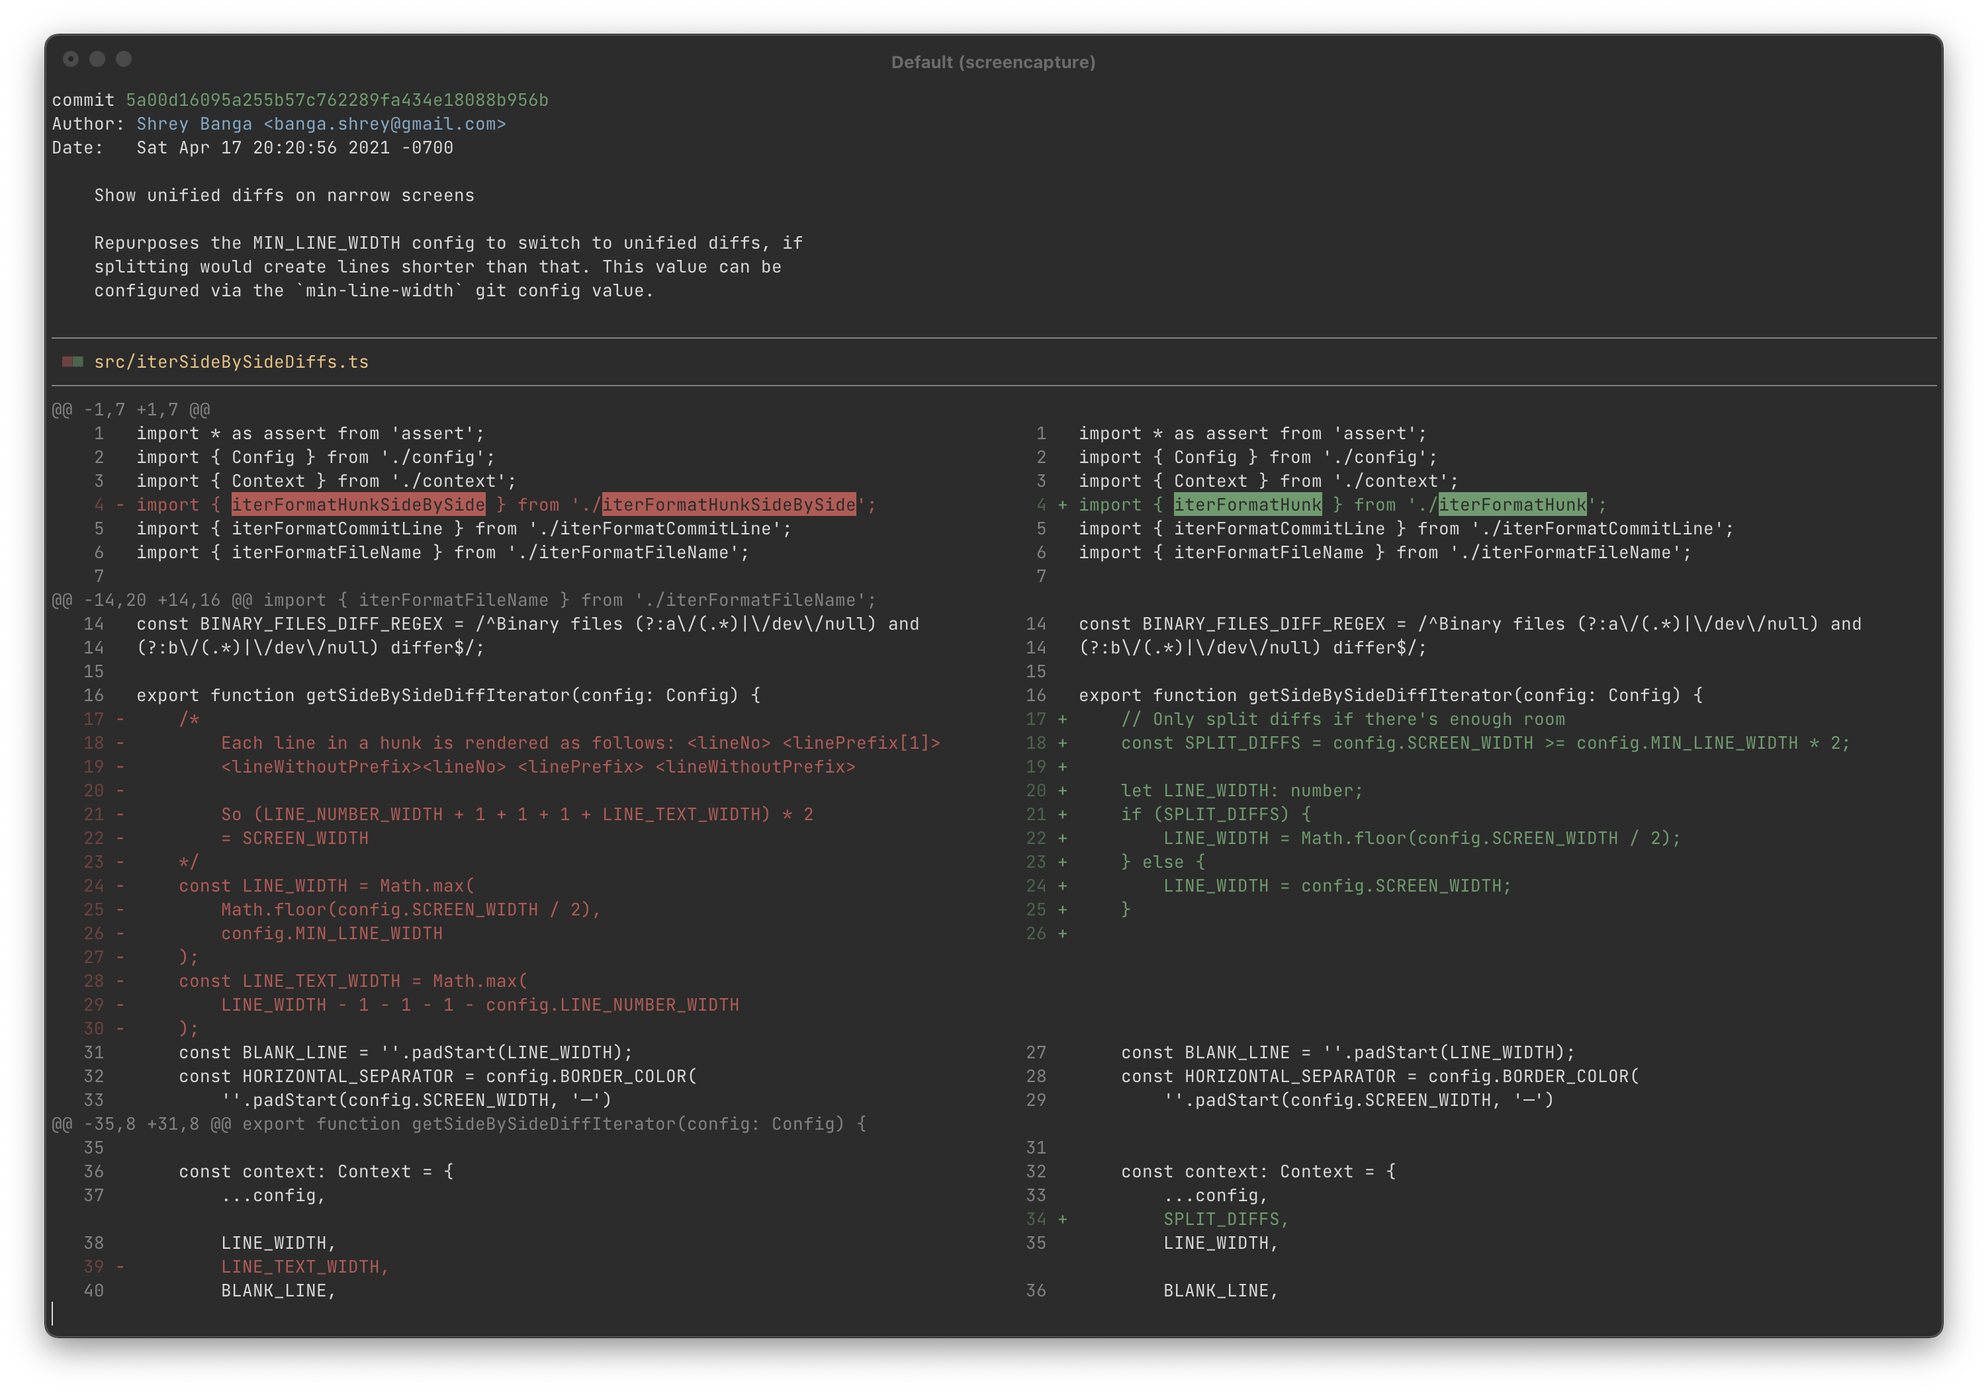
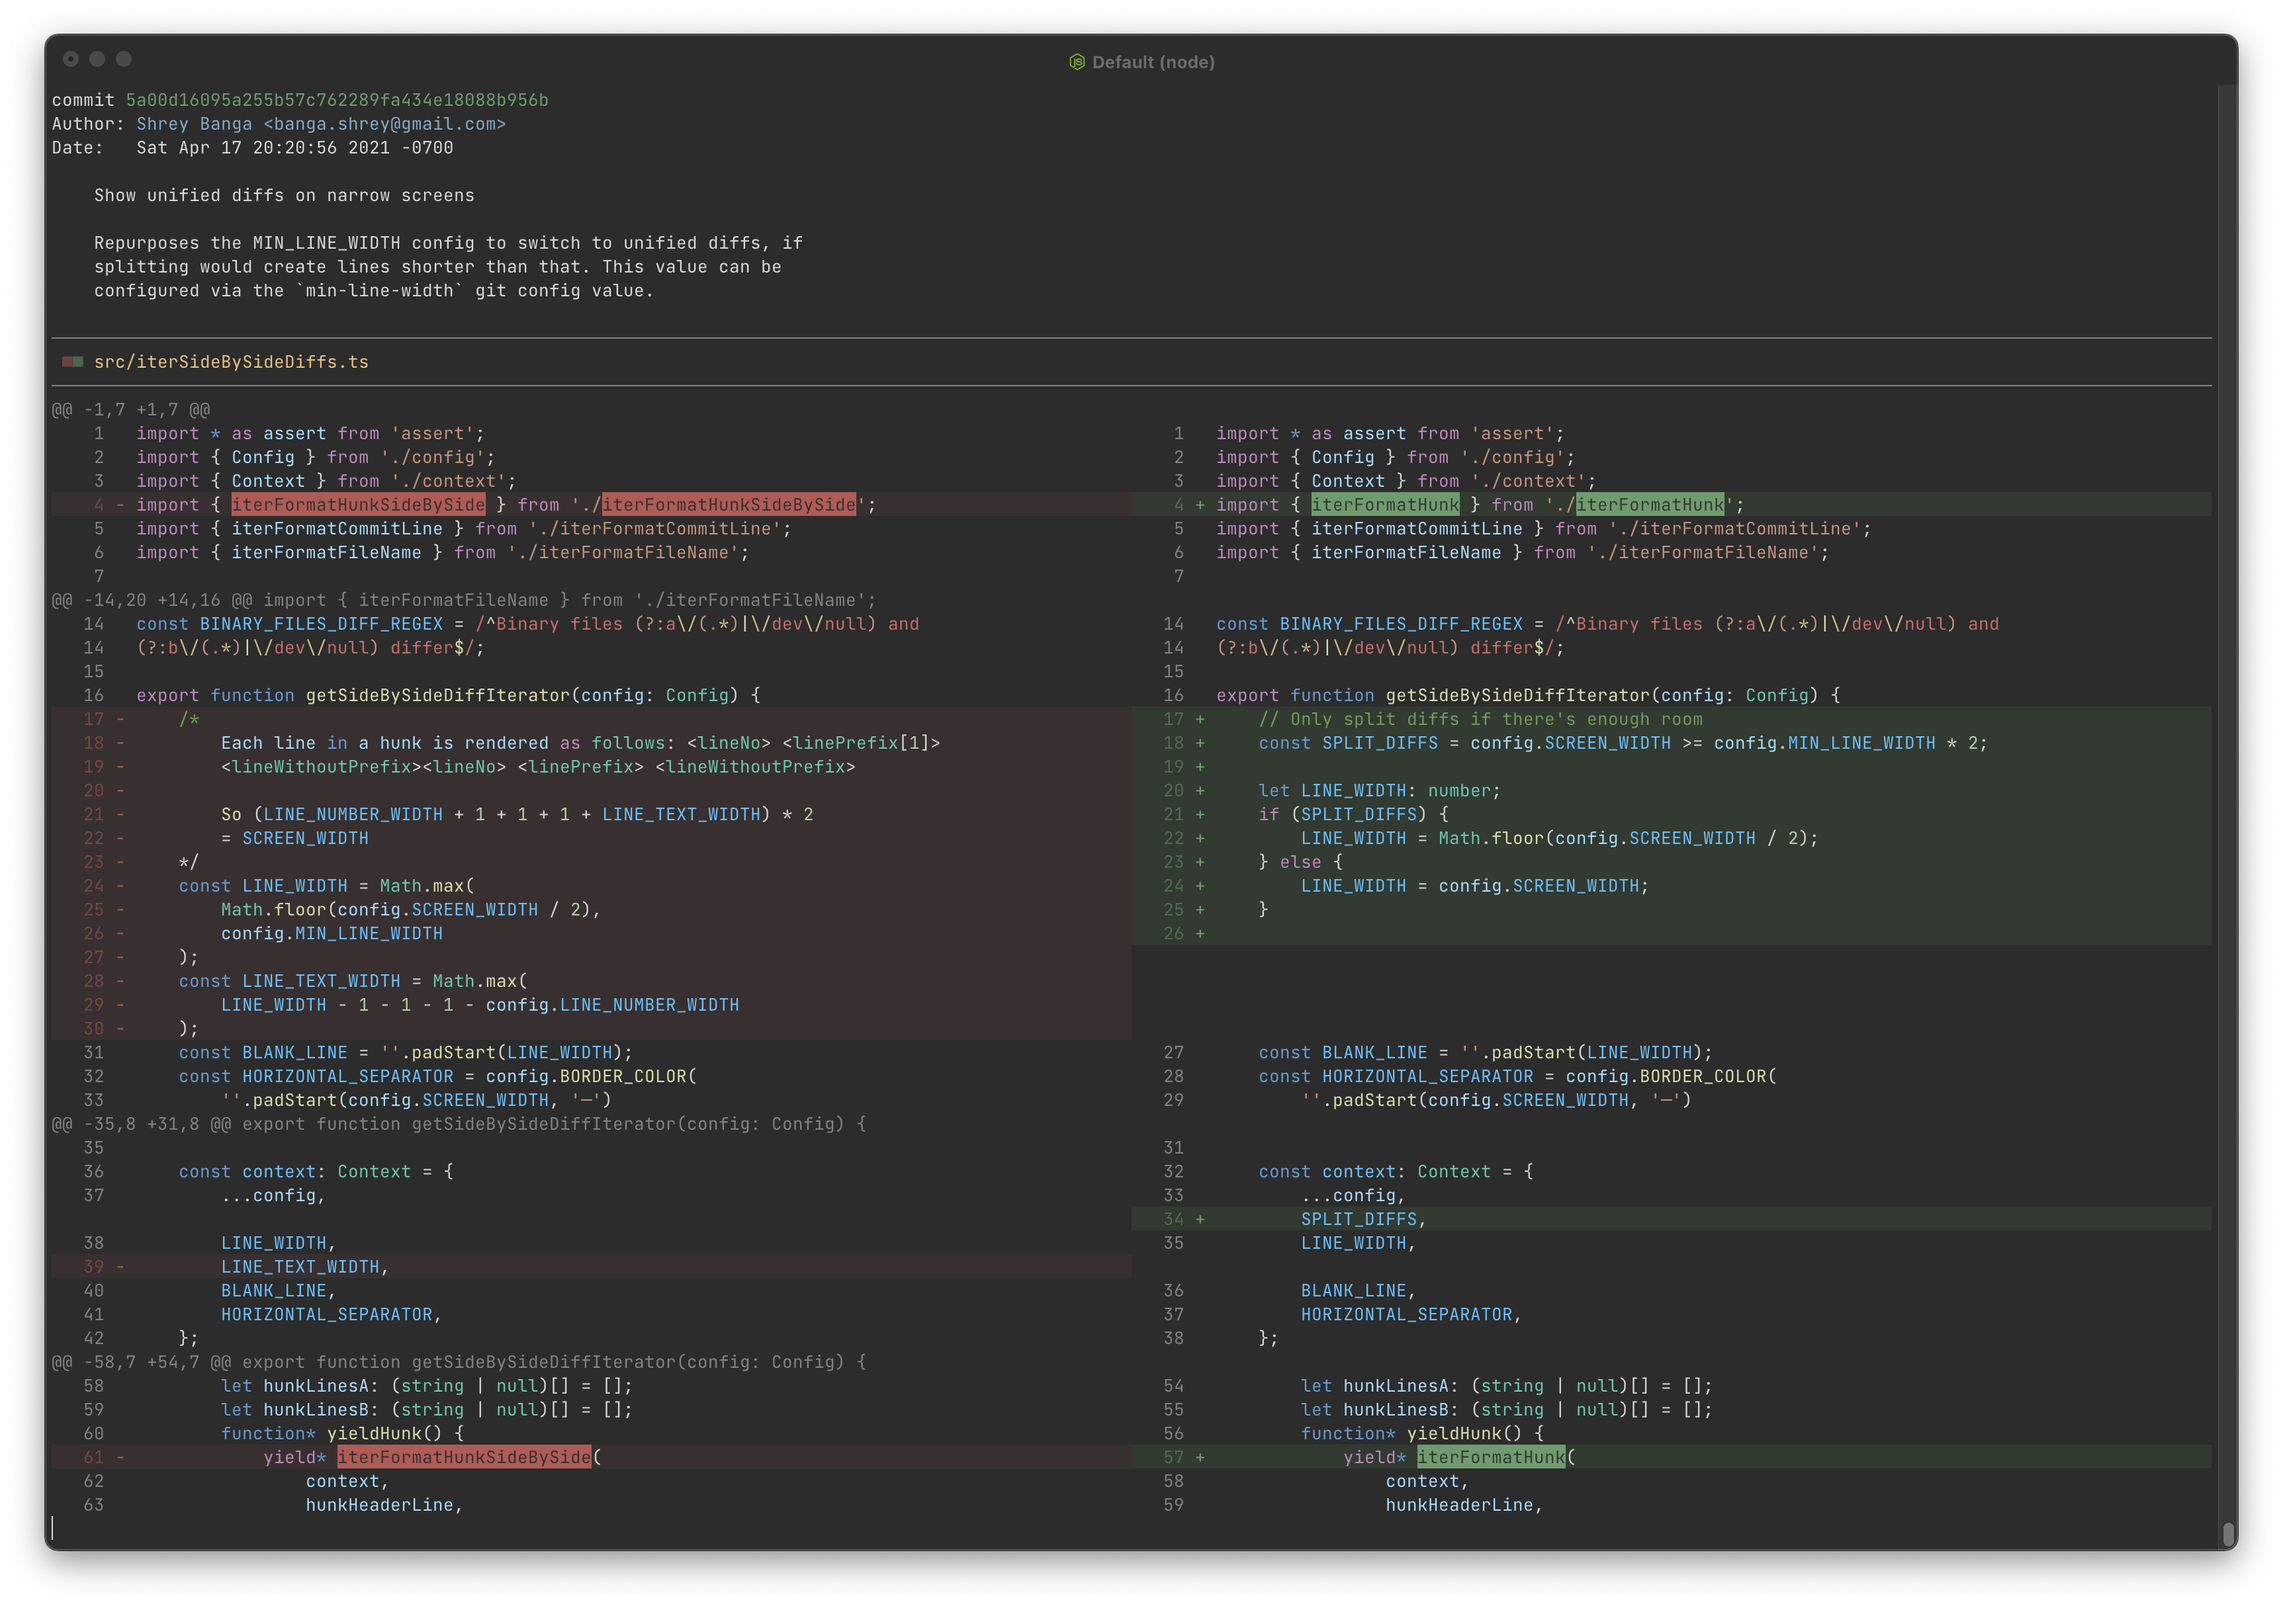
Update screenshots and README

diff --git a/README.md b/README.md
@@ -41,6 +41,7 @@ git diff | git-split-diffs --color | less
 ### Line wrapping
 
 By default, lines are wrapped to fit in the screen. If you prefer to truncate them update the `wrap-lines` setting:
+
 ```
 git config split-diffs.wrap-lines false
 ```
@@ -51,16 +52,35 @@ By default, salient changes within lines are also highlighted:
 ![Screenshot of inline changes](screenshots/inline-changes.png?raw=true)
 
 This adds a small overhead to rendering. You can disable this with the `highlight-line-changes` setting:
+
 ```
 git config split-diffs.highlight-line-changes false
+```
+
+### Syntax highlighting
+
+Syntax highlighting is enabled by default. It uses the same technology as vscode, via [shiki](shikijs/shiki). Each theme specifies a default syntax highlighting theme to use, but that can be overridden by:
+
+```
+git config split-diffs.syntax-highlighting-theme <name>
+```
+
+Supported syntax highlighting themes are named here: https://github.com/shikijs/shiki/blob/master/docs/themes.md
+
+Syntax highlighting is the slowest operation, so you can disable it for faster diffs:
+
+```
+git config split-diffs.syntax-highlighting-theme ''
 ```
 
 ### Narrow terminals
 
 Split diffs can be hard to read on narrow widths, so if we cannot fit two lines of `min-line-width` on screen, we revert to unified diffs. This value is configurable:
+
 ```
 git config split-diffs.min-line-width 40
 ```
+
 This defaults to `80`, so screens below `160` characters will display unified diffs. Set it to `0` to always show split diffs.
 
 ### Themes
@@ -74,7 +94,6 @@ git config split-diffs.theme default
 ```
 
 ![Screenshot of default theme](screenshots/default.png?raw=true)
-
 
 #### Light
 
